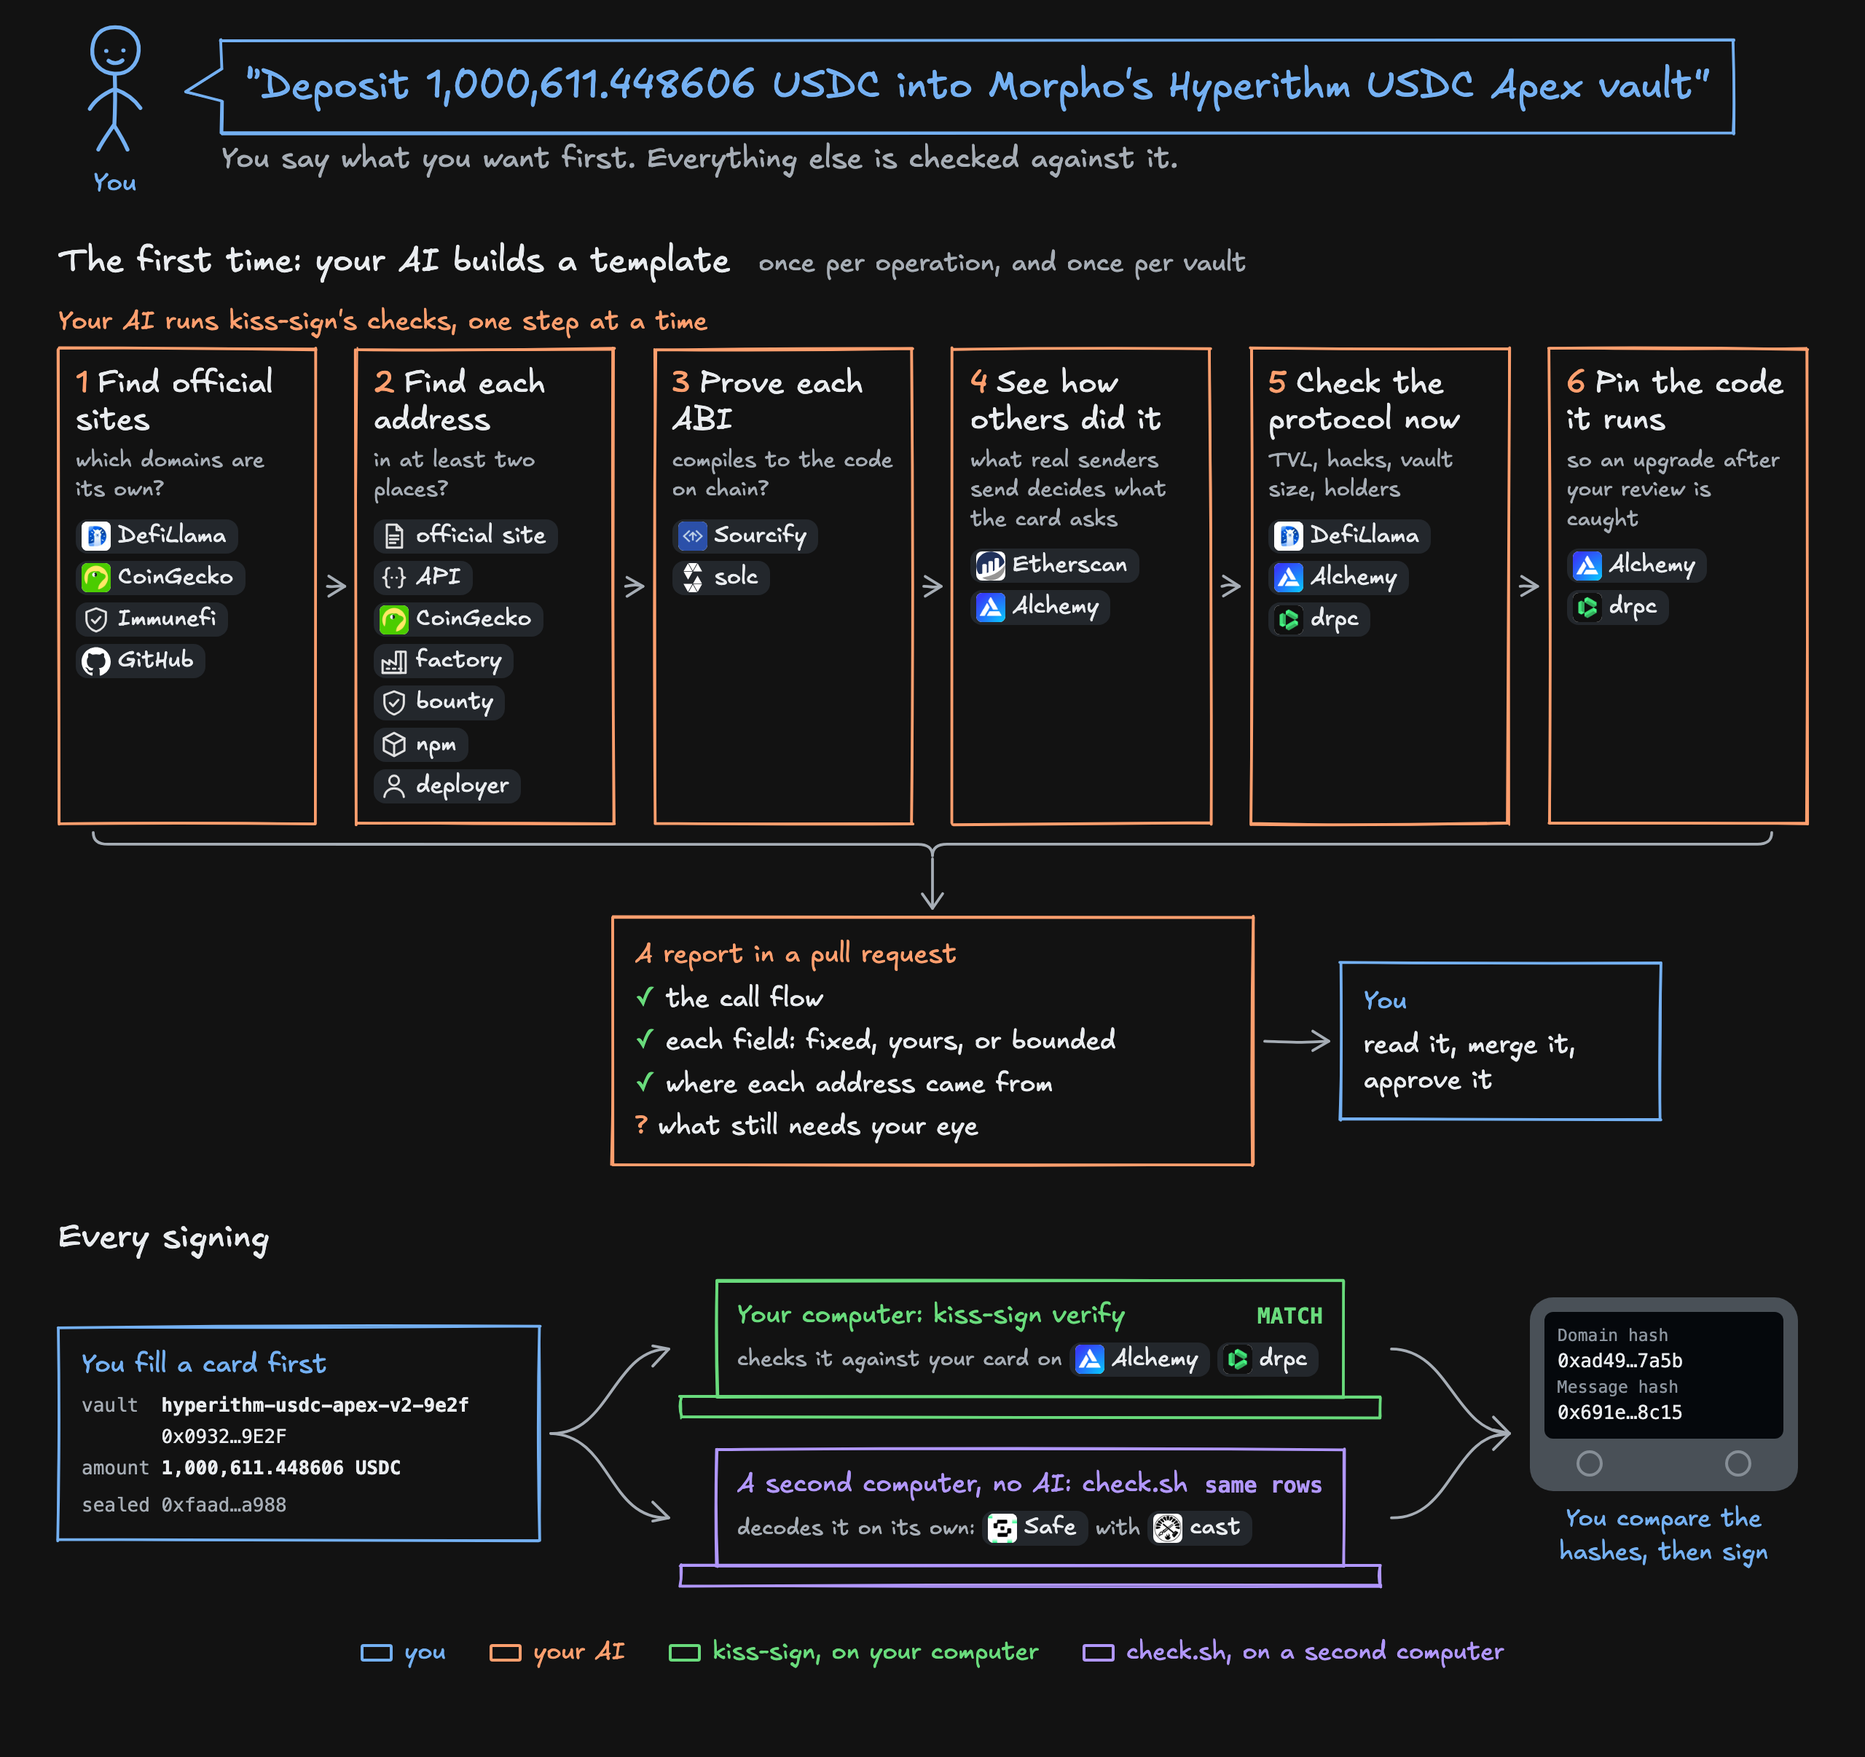
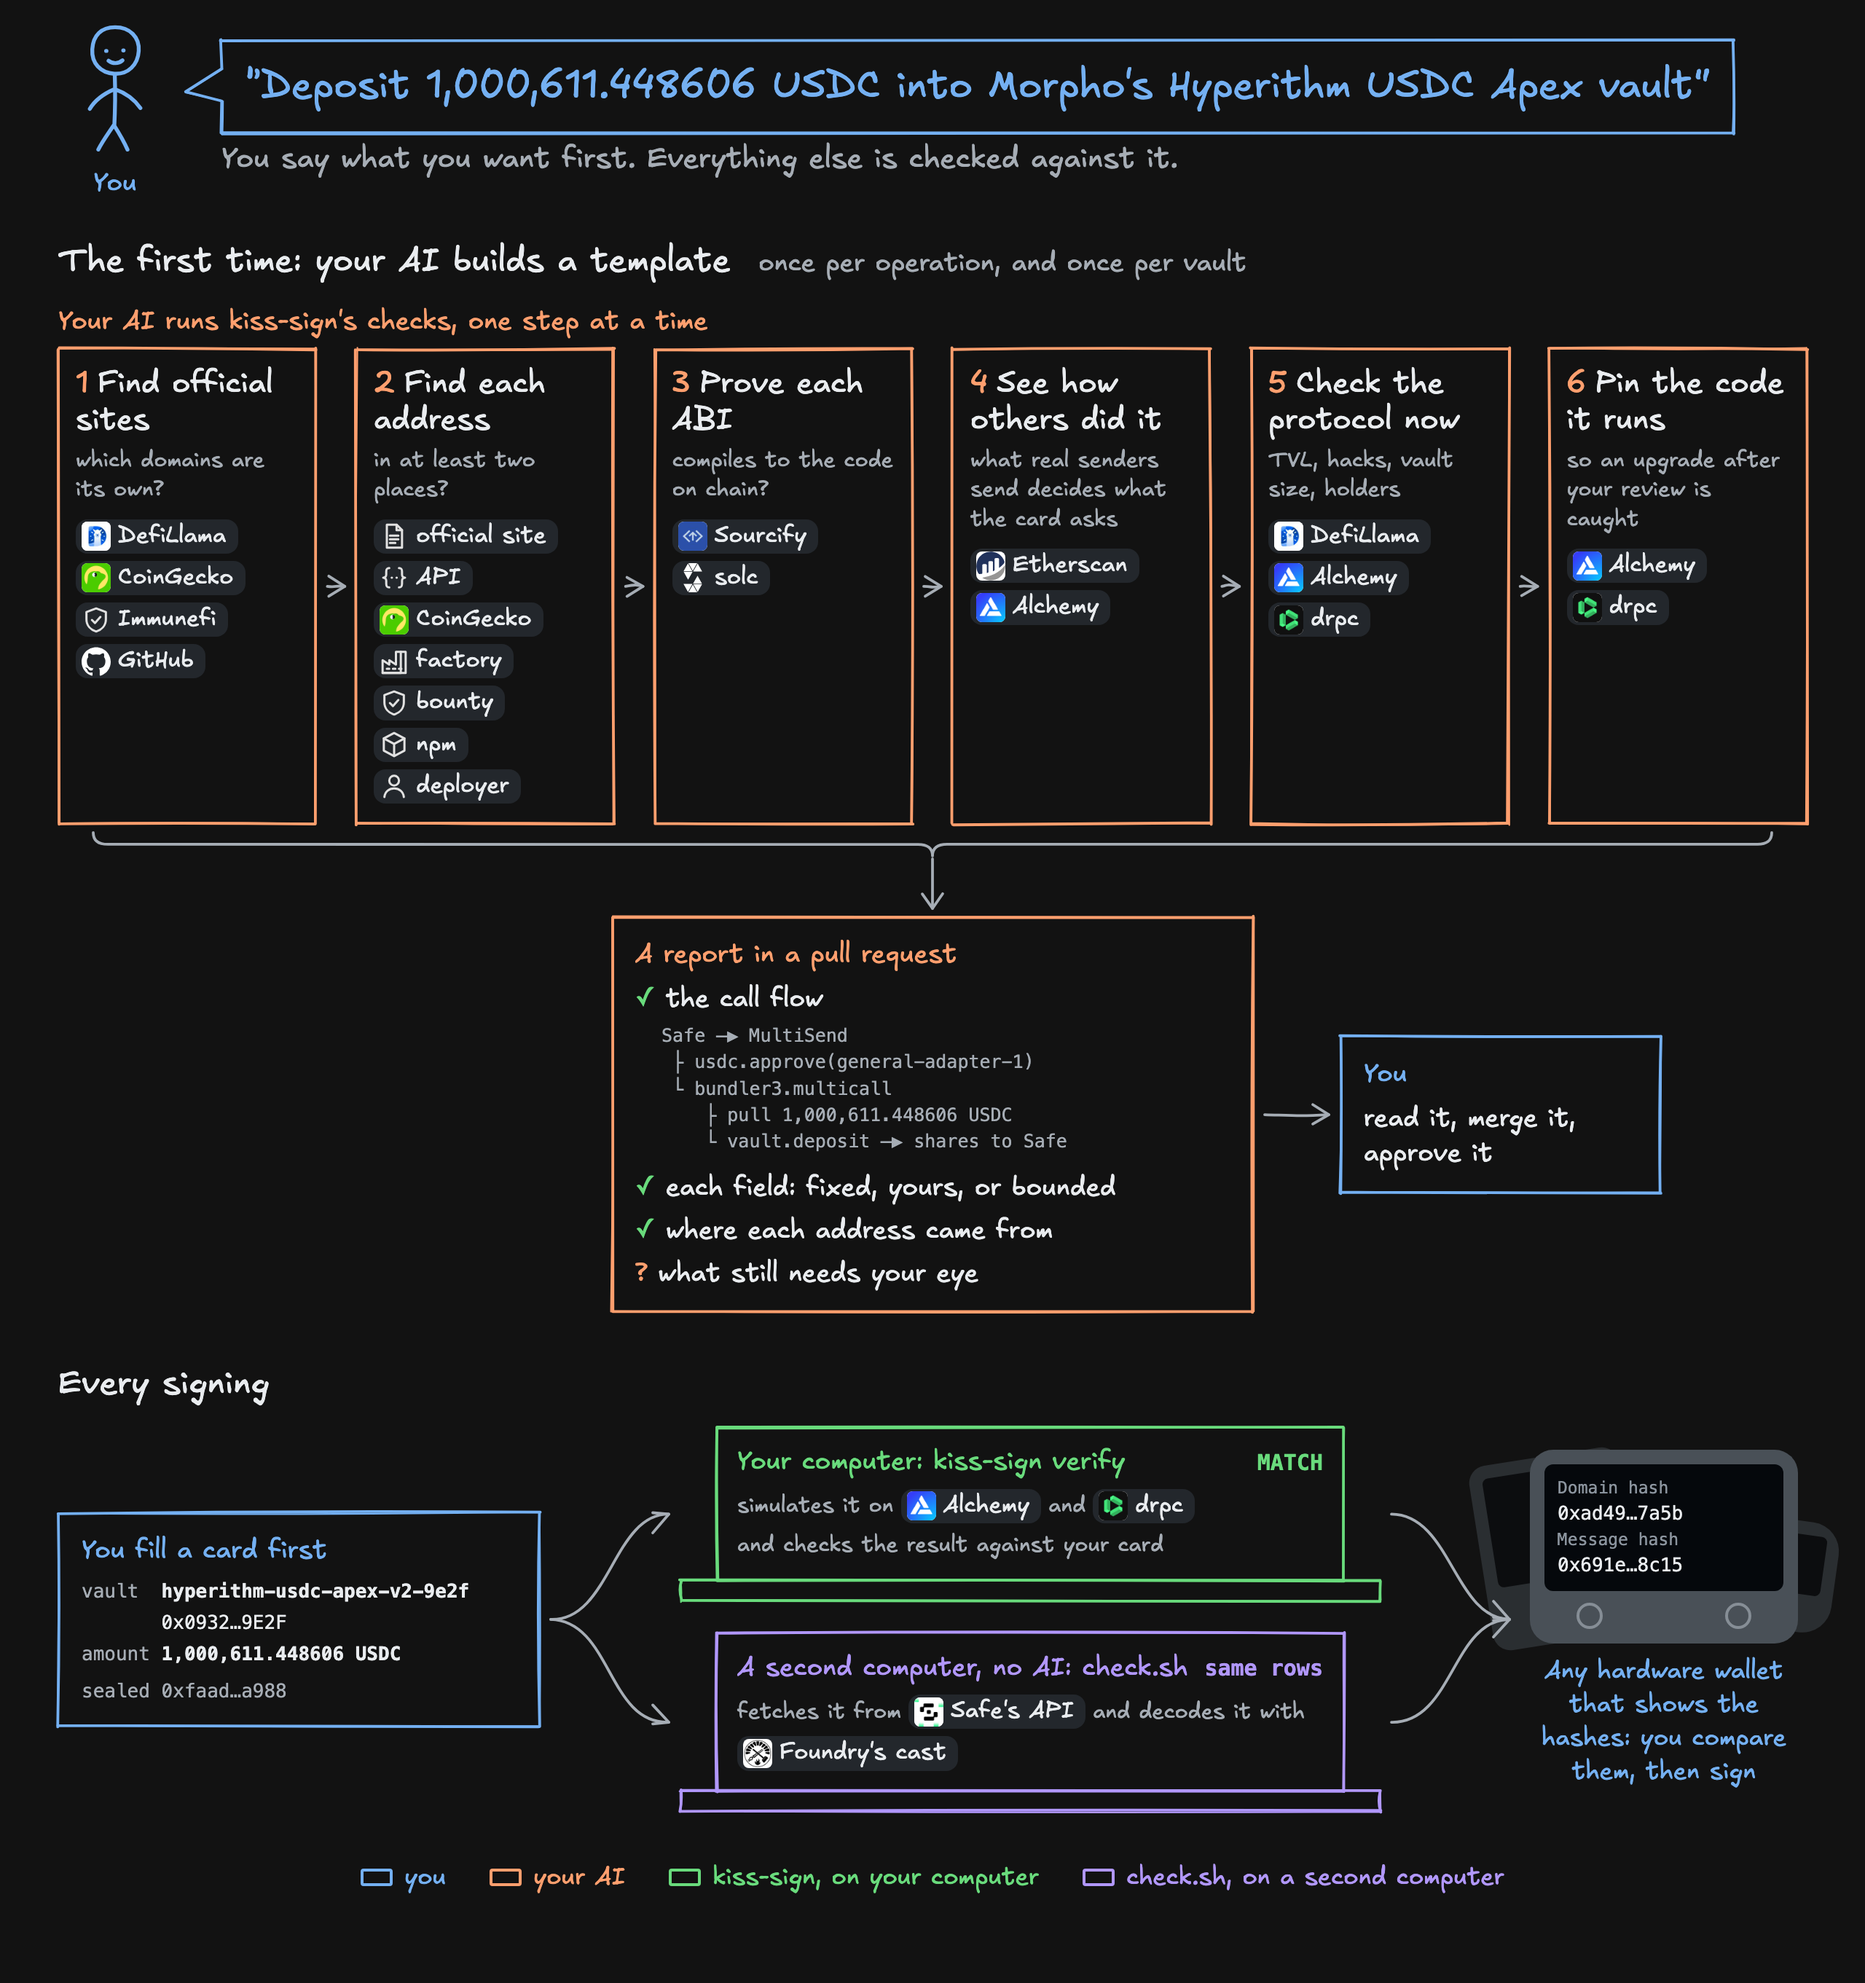
Diagram: sketch the call flow, say verify simulates on both providers, name Safe's API and Foundry's cast, show any hardware wallet

diff --git a/docs/diagrams/readme-overview.html b/docs/diagrams/readme-overview.html
@@ -82,6 +82,13 @@
   .dev .s i { font-style: normal; color: #8b949e; font-size: 11.5px; display: block; }
   .dev .b { display: flex; justify-content: space-between; padding: 8px 22px 0; }
   .dev .b span { width: 18px; height: 18px; border-radius: 50%; border: 2px solid #868e96; }
+  .devs { position: relative; }
+  .dev.ghost { position: absolute; opacity: .45; padding: 0; }
+  .dev.g1 { width: 104px; height: 128px; left: -34px; top: 4px; transform: rotate(-9deg); border-radius: 12px; }
+  .dev.g2 { width: 120px; height: 76px; right: -26px; top: 44px; transform: rotate(8deg); border-radius: 20px; }
+  .devs > .dev:last-child { position: relative; }
+  .dev.ghost::before { content: ''; position: absolute; left: 9px; right: 9px; top: 9px; bottom: 34%; background: var(--screen); border-radius: 4px; }
+  .report .flow { white-space: pre; font-size: 12.5px; line-height: 1.45; color: var(--muted); margin: 4px 0 6px 18px; }
   .wallet p { margin-top: 8px; color: var(--you); font-size: 17px; text-align: center; }
 
   .gap { height: 34px; }
@@ -120,7 +127,11 @@
   <div class="then">
     <div class="sk ai report" id="report">
       <div class="who">A report in a pull request</div>
-      <ul><li>the call flow</li><li>each field: fixed, yours, or bounded</li><li>where each address came from</li><li class="q">what still needs your eye</li></ul>
+      <ul><li>the call flow<div class="flow mono">Safe ─▶ MultiSend
+ ├ usdc.approve(general-adapter-1)
+ └ bundler3.multicall
+    ├ pull 1,000,611.448606 USDC
+    └ vault.deposit ─▶ shares to Safe</div></li><li>each field: fixed, yours, or bounded</li><li>where each address came from</li><li class="q">what still needs your eye</li></ul>
     </div>
     <div class="sk you merge" id="merge">
       <div class="who">You</div>
@@ -138,18 +149,18 @@
     <div class="computers">
       <div class="pc prog" id="pc1">
         <div class="sk scr"><div class="who">Your computer: kiss-sign verify<span class="verdict">MATCH</span></div>
-          <div class="line"><span class="note">checks it against your card on</span><span class="lg"><img src="logos/alchemy.png" alt="">Alchemy</span><span class="lg"><img src="logos/drpc.png" alt="">drpc</span></div></div>
+          <div class="line"><span class="note">simulates it on</span><span class="lg"><img src="logos/alchemy.png" alt="">Alchemy</span><span class="note">and</span><span class="lg"><img src="logos/drpc.png" alt="">drpc</span><span class="note">and checks the result against your card</span></div></div>
         <div class="sk base"></div>
       </div>
       <div class="pc ind" id="pc2">
         <div class="sk scr"><div class="who">A second computer, no AI: check.sh<span class="verdict">same rows</span></div>
-          <div class="line"><span class="note">decodes it on its own:</span><span class="lg"><img src="logos/safe.jpg" alt="">Safe</span><span class="note">with</span><span class="lg"><img src="logos/foundry.png" alt="">cast</span></div></div>
+          <div class="line"><span class="note">fetches it from</span><span class="lg"><img src="logos/safe.jpg" alt="">Safe's API</span><span class="note">and decodes it with</span><span class="lg"><img src="logos/foundry.png" alt="">Foundry's cast</span></div></div>
         <div class="sk base"></div>
       </div>
     </div>
     <div class="wallet" id="wallet">
-      <div class="dev"><div class="s"><i>Domain hash</i>0xad49…7a5b<i>Message hash</i>0x691e…8c15</div><div class="b"><span></span><span></span></div></div>
-      <p>You compare the hashes, then sign</p>
+      <div class="devs"><div class="dev ghost g1"></div><div class="dev ghost g2"></div><div class="dev"><div class="s"><i>Domain hash</i>0xad49…7a5b<i>Message hash</i>0x691e…8c15</div><div class="b"><span></span><span></span></div></div></div>
+      <p>Any hardware wallet that shows the hashes: you compare them, then sign</p>
     </div>
   </div>
 

diff --git a/README.md b/README.md
@@ -13,7 +13,7 @@ Signing tools today show you a transaction and ask whether it looks right. Your 
 
 <picture>
   <source media="(prefers-color-scheme: dark)" srcset="docs/readme/overview-dark.png">
-  <img src="docs/readme/overview.png" alt="kiss-sign at a glance. You say what you want. Once per operation, your AI runs kiss-sign's checks: each address's page, API and SDK build must be on one of the protocol's sites, as DefiLlama and the protocol's CoinGecko coin list them, joined by its Immunefi program's and its GitHub-verified organization's when they match those, and each address must show up in at least two places among the official pages, the protocol's API, CoinGecko, the factory, the bug bounty's scope, the npm SDK and the deployer of an entry confirmed elsewhere. It then checks the ABIs, past transactions, the protocol's state and the code it runs, and writes a report, which you review and merge. At every signing, you fill a card, kiss-sign verify checks the transaction against it on your computer, check.sh decodes the same transaction on a second computer, and you compare the hashes on your hardware wallet before signing.">
+  <img src="docs/readme/overview.png" alt="kiss-sign at a glance. You say what you want. Once per operation, your AI runs kiss-sign's checks: each address's page, API and SDK build must be on one of the protocol's sites, as DefiLlama and the protocol's CoinGecko coin list them, joined by its Immunefi program's and its GitHub-verified organization's when they match those, and each address must show up in at least two places among the official pages, the protocol's API, CoinGecko, the factory, the bug bounty's scope, the npm SDK and the deployer of an entry confirmed elsewhere. It then checks the ABIs, past transactions, the protocol's state and the code it runs, and writes a report, which you review and merge. The report shows the call flow: the Safe calls MultiSend, which approves USDC to general-adapter-1 and calls bundler3.multicall, which pulls the USDC and deposits it into the vault, the shares going to the Safe. At every signing, you fill a card; on your computer kiss-sign verify simulates the transaction on Alchemy and drpc and checks the result against the card; on a second computer check.sh fetches the same transaction from Safe's API and decodes it with Foundry's cast; and you compare the hashes on any hardware wallet that shows them before signing.">
 </picture>
 
 ## Contents
